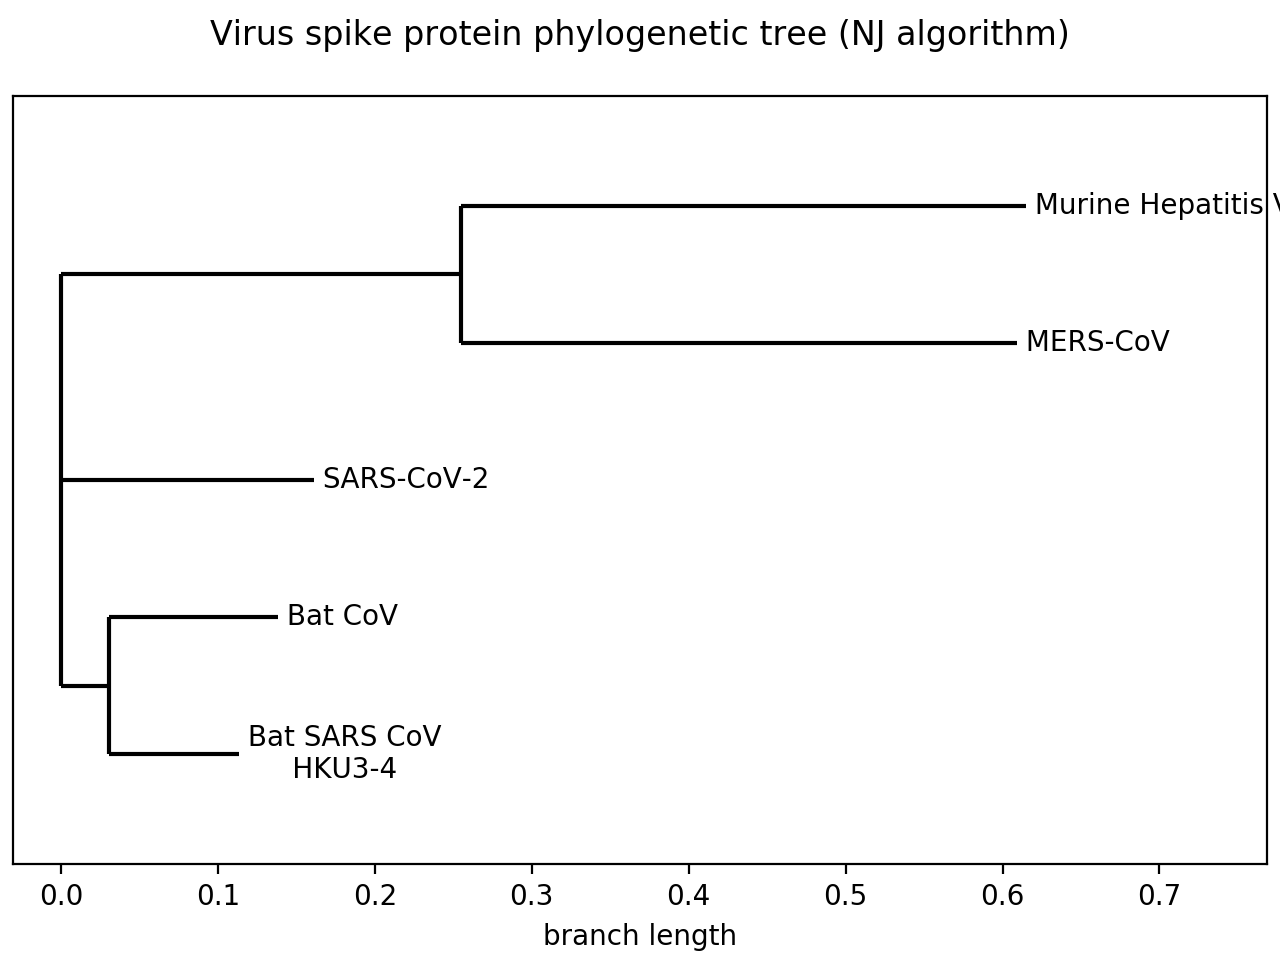
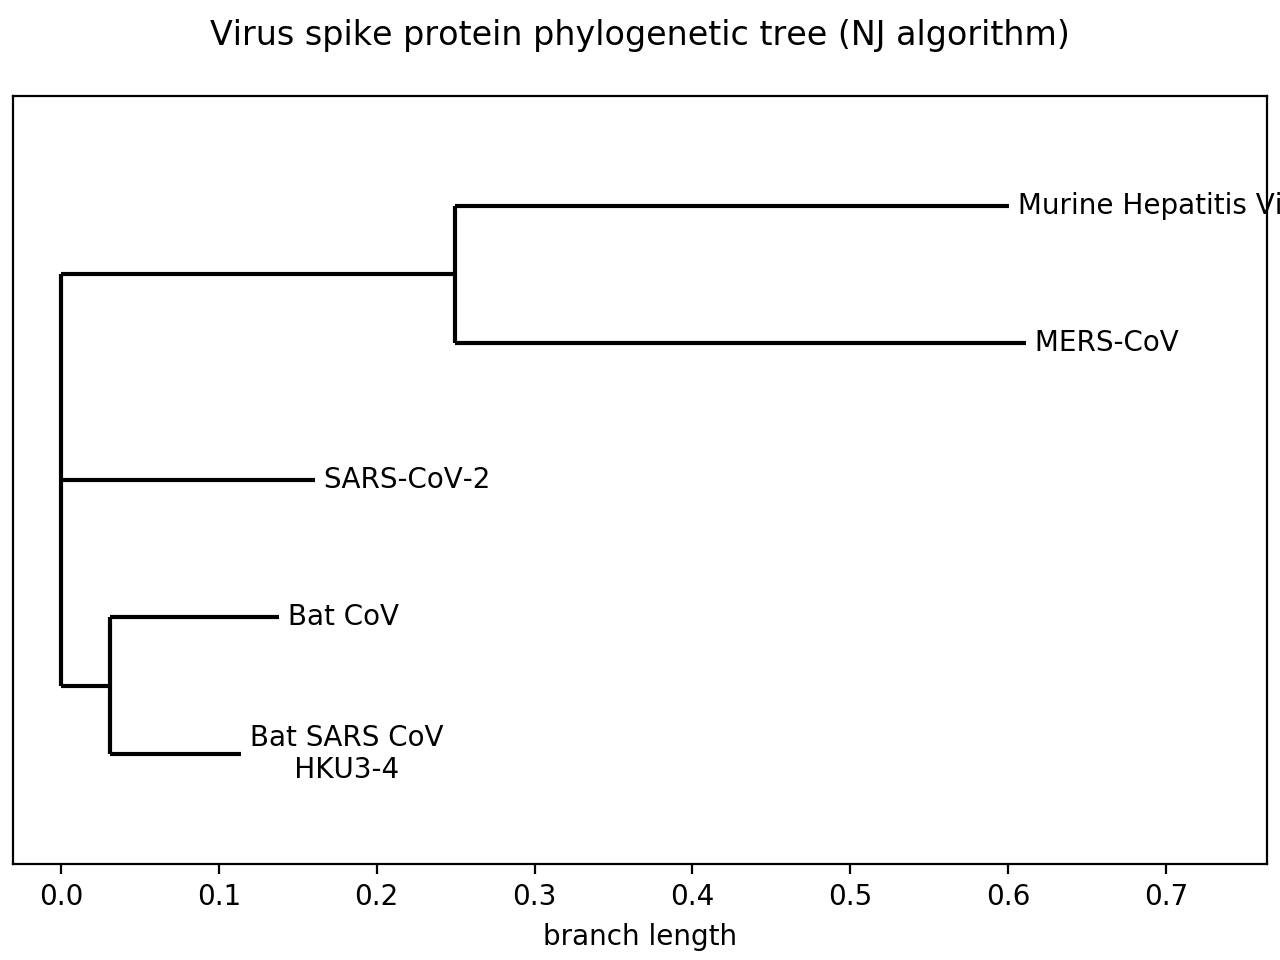
up

diff --git a/execute.py b/execute.py
@@ -12,7 +12,7 @@ def entrez_import():
     # respective database codes for: SARS-CoV-2, Bat SARS CoV HKU3-4,
     # Bat CoV, MERS-CoV, Murine Hepatitis Virus
     genome_db_codes = [1821109035, 292660135, 1189488873, 1386872249, 1268318180]
-    spike_protein_db_codes = [1812779093, 292660137, 1023043585, 1386872252, 1825483]
+    spike_protein_db_codes = [1812779093, 292660137, 1023043585, 510937295, 1825483]
 
     print('\nImporting following DNA codes...\n')
 
@@ -21,7 +21,6 @@ def entrez_import():
         genome_handle = Entrez.efetch(db="nucleotide",id=genome_db_codes[i],rettype="fasta")
         genome = SeqIO.read(genome_handle,"fasta")
         genome_dna.append(genome)
-        print(genome.description)
 
     # import additional Influenza A genome which is stored in 8 segments
     influenza_segments_codes = [310699718, 310699715, 310699713, 310699701, 310699708, 310699706, 310699703, 310699710]
@@ -35,17 +34,13 @@ def entrez_import():
         else:
             genome.seq = genome.seq + influenza_segment.seq
 
-    print(genome.description)
     genome_dna.append(genome)
-
-    print()
 
     spike_protein_dna = []
     for i in range(len(spike_protein_db_codes)):
         spike_protein_handle = Entrez.efetch(db="protein",id=spike_protein_db_codes[i],rettype="fasta")
         spike_protein = SeqIO.read(spike_protein_handle,"fasta")
         spike_protein_dna.append(spike_protein)
-        print(spike_protein.description)
 
     # write imported dna codes to fasta files
     SeqIO.write(genome_dna, 'data/genome_dna.fasta', 'fasta')
